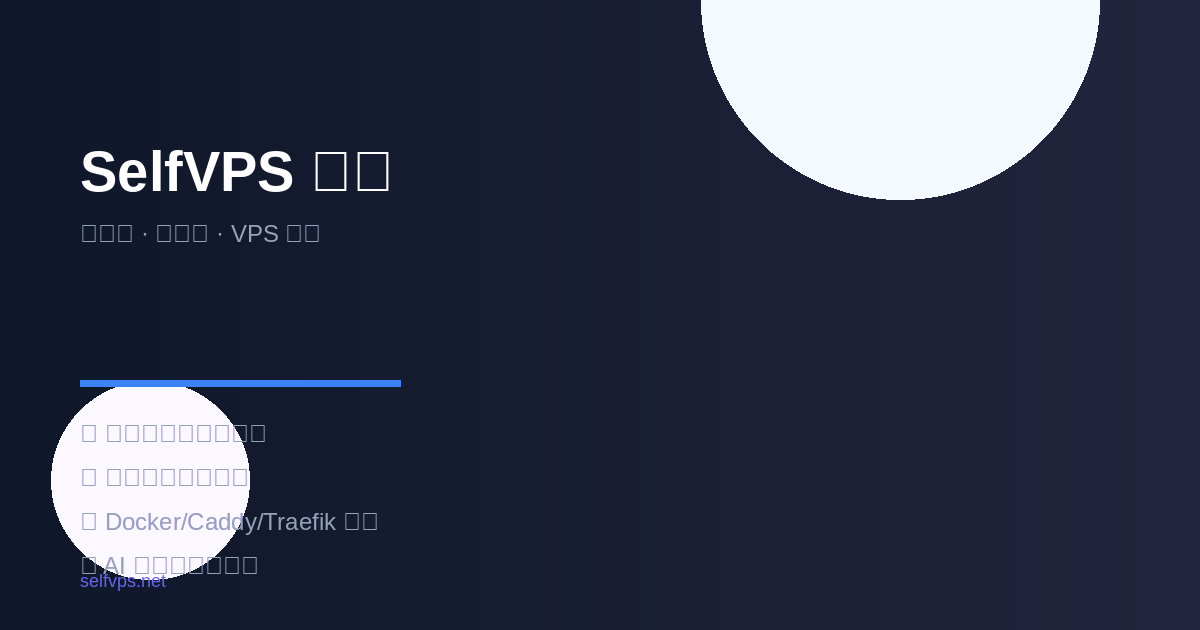
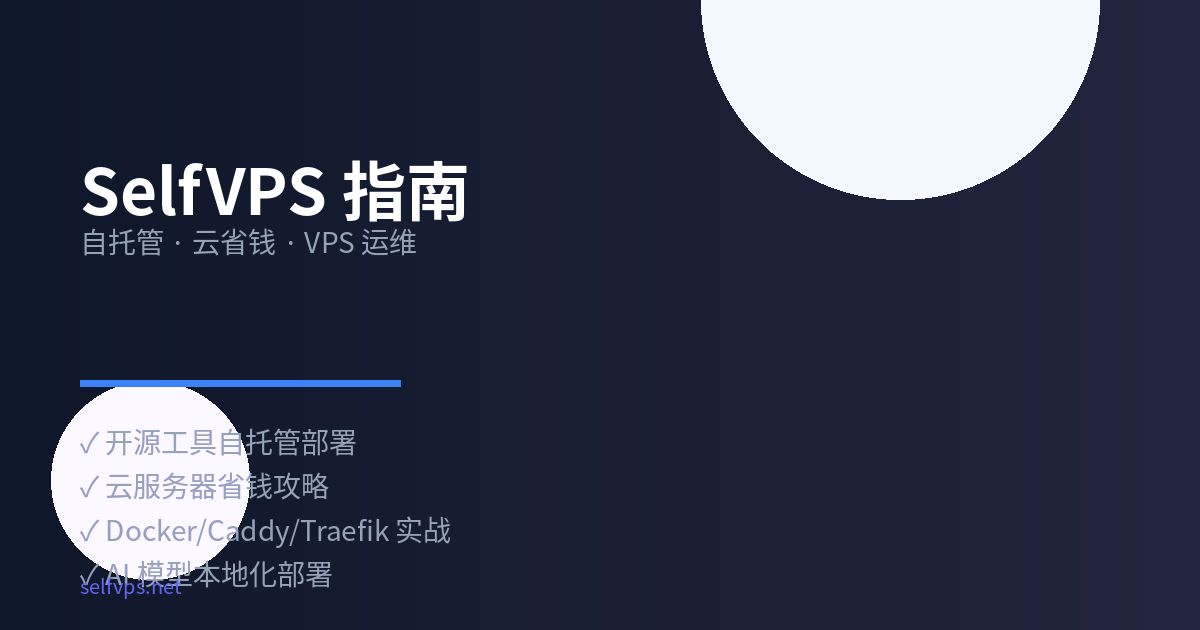
fix: social-card.png 中文乱码 - 字体路径错误
配图中文显示为方框的原因：字体路径用了不存在的
/usr/share/fonts/truetype/noto/ 导致加载失败，
fallback 到 LiberationSans（无中文支持）。

修复：改用 /usr/share/fonts/opentype/noto/（实际存在）
同时更新 cron job prompt 明确标注正确的字体路径

Changed region(s): [[0.0617, 0.6635, 0.37, 0.9651], [0.0617, 0.2413, 0.4008, 0.4222]]

diff --git a/scripts/generate_assets.py b/scripts/generate_assets.py
@@ -48,7 +48,7 @@ for idx, yy in enumerate([cy + 5, cy + 16, cy + 27]):
 
 # S letter
 try:
-    font_large = ImageFont.truetype("/usr/share/fonts/truetype/noto/NotoSansCJK-Regular.ttc", 18)
+    font_large = ImageFont.truetype("/usr/share/fonts/opentype/noto/NotoSansCJK-Regular.ttc", 18)
 except:
     font_large = ImageFont.load_default()
 
@@ -86,14 +86,14 @@ for i in range(60, 0, -1):
 
 # Title
 try:
-    font_title = ImageFont.truetype("/usr/share/fonts/truetype/noto/NotoSansCJK-Bold.ttc", 64)
-    font_sub = ImageFont.truetype("/usr/share/fonts/truetype/noto/NotoSans-Regular.ttf", 28)
-    font_url = ImageFont.truetype("/usr/share/fonts/truetype/noto/NotoSans-Regular.ttf", 20)
+    font_title = ImageFont.truetype("/usr/share/fonts/opentype/noto/NotoSansCJK-Bold.ttc", 64)
+    font_sub = ImageFont.truetype("/usr/share/fonts/opentype/noto/NotoSansCJK-Regular.ttc", 28)
+    font_url = ImageFont.truetype("/usr/share/fonts/opentype/noto/NotoSansCJK-Regular.ttc", 20)
 except:
     try:
-        font_title = ImageFont.truetype("/usr/share/fonts/truetype/liberation/LiberationSans-Bold.ttf", 56)
-        font_sub = ImageFont.truetype("/usr/share/fonts/truetype/liberation/LiberationSans-Regular.ttf", 24)
-        font_url = ImageFont.truetype("/usr/share/fonts/truetype/liberation/LiberationSans-Regular.ttf", 18)
+        font_title = ImageFont.truetype("/usr/share/fonts/opentype/noto/NotoSansCJK-Bold.ttc", 56)
+        font_sub = ImageFont.truetype("/usr/share/fonts/opentype/noto/NotoSansCJK-Regular.ttc", 24)
+        font_url = ImageFont.truetype("/usr/share/fonts/opentype/noto/NotoSansCJK-Regular.ttc", 18)
     except:
         font_title = ImageFont.load_default()
         font_sub = ImageFont.load_default()
